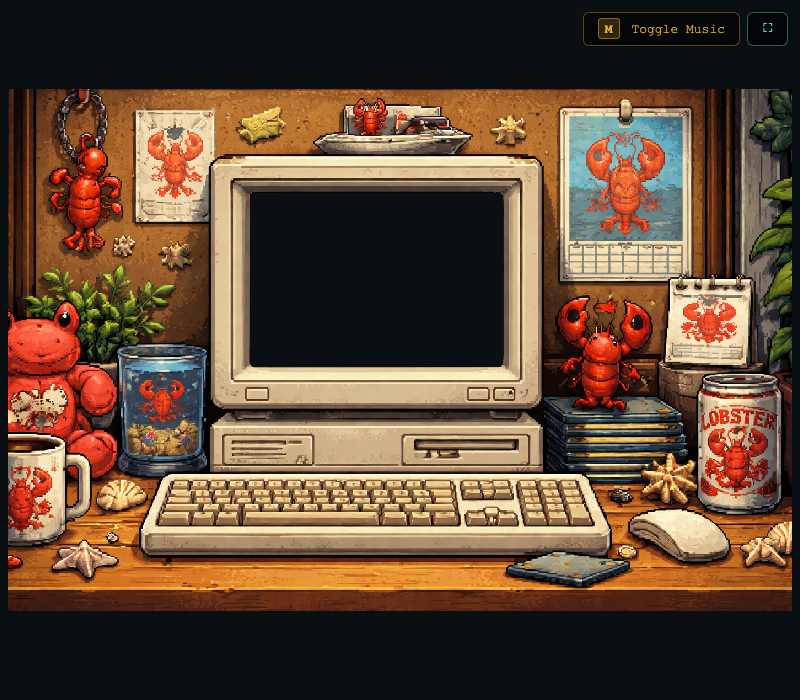
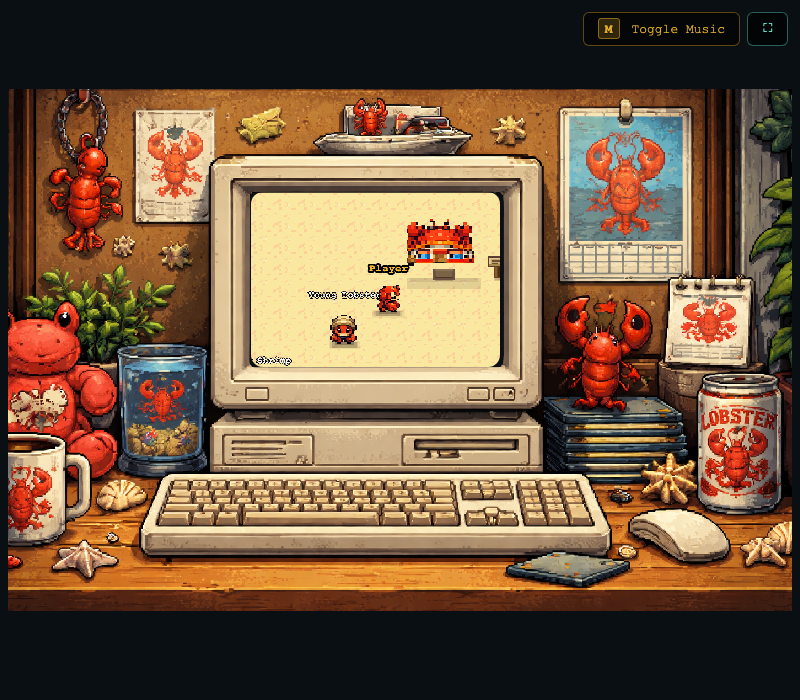
Enable debug mode via ?debug=true URL param

Changed region(s): [[0.3125, 0.27, 0.625, 0.54]]

diff --git a/check-buildings.js b/check-buildings.js
@@ -1,0 +1,76 @@
+const { chromium } = require('playwright');
+
+async function checkBuildings() {
+    const browser = await chromium.launch({ headless: true });
+    const page = await browser.newPage({ viewport: { width: 800, height: 700 } });
+    
+    console.log('Loading game...');
+    await page.goto('https://claw-world-rpg.netlify.app?quickStart=true', { 
+        waitUntil: 'networkidle', 
+        timeout: 30000 
+    });
+    await page.waitForTimeout(3000);
+    
+    // Enable debug mode (press backtick multiple times to make sure)
+    console.log('Enabling debug mode...');
+    await page.keyboard.press('Backquote');
+    await page.waitForTimeout(200);
+    await page.keyboard.press('Backquote');
+    await page.waitForTimeout(200);
+    await page.keyboard.press('Backquote');
+    await page.waitForTimeout(500);
+    
+    // Screenshot at spawn
+    await page.screenshot({ path: 'building-check/01-spawn.png' });
+    console.log('01 - spawn');
+    
+    // Go find buildings - head to center of main island
+    // North first
+    for (let i = 0; i < 30; i++) {
+        await page.keyboard.press('ArrowUp');
+        await page.waitForTimeout(20);
+    }
+    await page.screenshot({ path: 'building-check/02-north.png' });
+    console.log('02 - north');
+    
+    // Northwest - where buildings often spawn
+    for (let i = 0; i < 25; i++) {
+        await page.keyboard.press('ArrowLeft');
+        await page.waitForTimeout(20);
+    }
+    for (let i = 0; i < 25; i++) {
+        await page.keyboard.press('ArrowUp');
+        await page.waitForTimeout(20);
+    }
+    await page.screenshot({ path: 'building-check/03-northwest.png' });
+    console.log('03 - northwest');
+    
+    // Look for more buildings
+    for (let i = 0; i < 40; i++) {
+        await page.keyboard.press('ArrowRight');
+        await page.waitForTimeout(20);
+    }
+    await page.screenshot({ path: 'building-check/04-east.png' });
+    console.log('04 - east');
+    
+    // More north
+    for (let i = 0; i < 30; i++) {
+        await page.keyboard.press('ArrowUp');
+        await page.waitForTimeout(20);
+    }
+    await page.screenshot({ path: 'building-check/05-more-north.png' });
+    console.log('05 - more north');
+    
+    // West again
+    for (let i = 0; i < 50; i++) {
+        await page.keyboard.press('ArrowLeft');
+        await page.waitForTimeout(20);
+    }
+    await page.screenshot({ path: 'building-check/06-west.png' });
+    console.log('06 - west');
+    
+    await browser.close();
+    console.log('Done! Screenshots in building-check/');
+}
+
+checkBuildings().catch(e => console.error(e));

diff --git a/client/js/Game.js b/client/js/Game.js
@@ -103,8 +103,9 @@ class Game {
         this.lastExitTime = 0; // Cooldown to prevent immediate re-entry after exiting
         this.lastEntryTime = 0; // Cooldown to prevent immediate exit after entering
 
-        // Debug mode (off by default, toggle with backtick key)
-        this.debugMode = false;
+        // Debug mode (off by default, toggle with backtick key, or ?debug=true URL param)
+        const urlParams = new URLSearchParams(window.location.search);
+        this.debugMode = urlParams.get('debug') === 'true';
         this.useNumberedTileset = false;
 
         // Character customization
